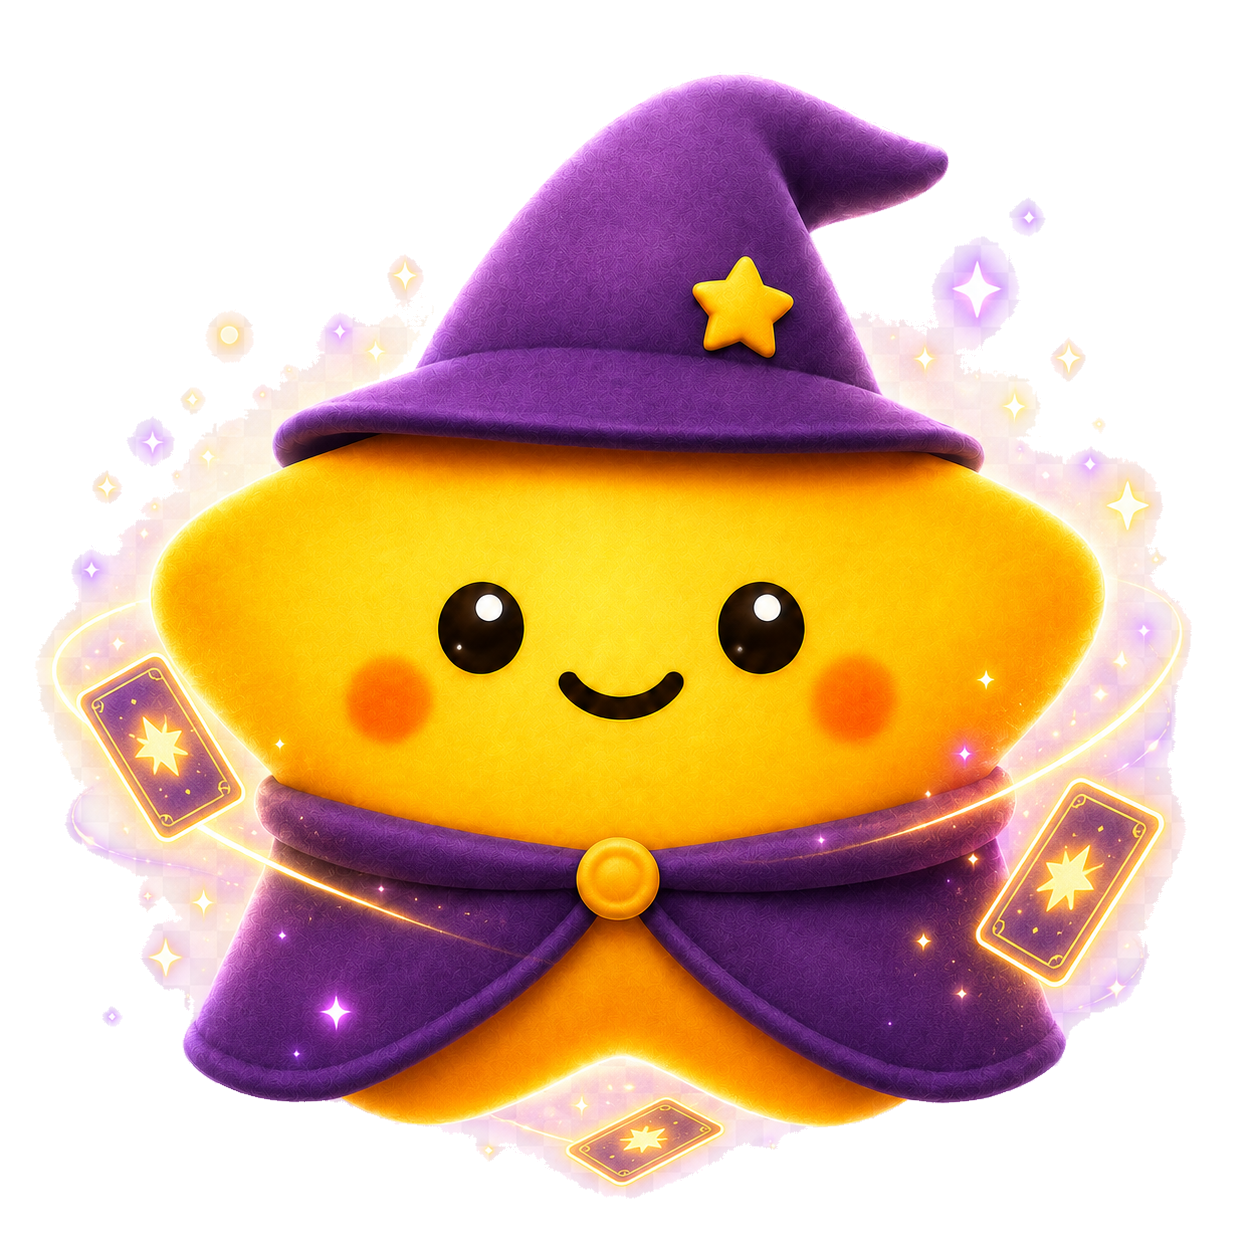
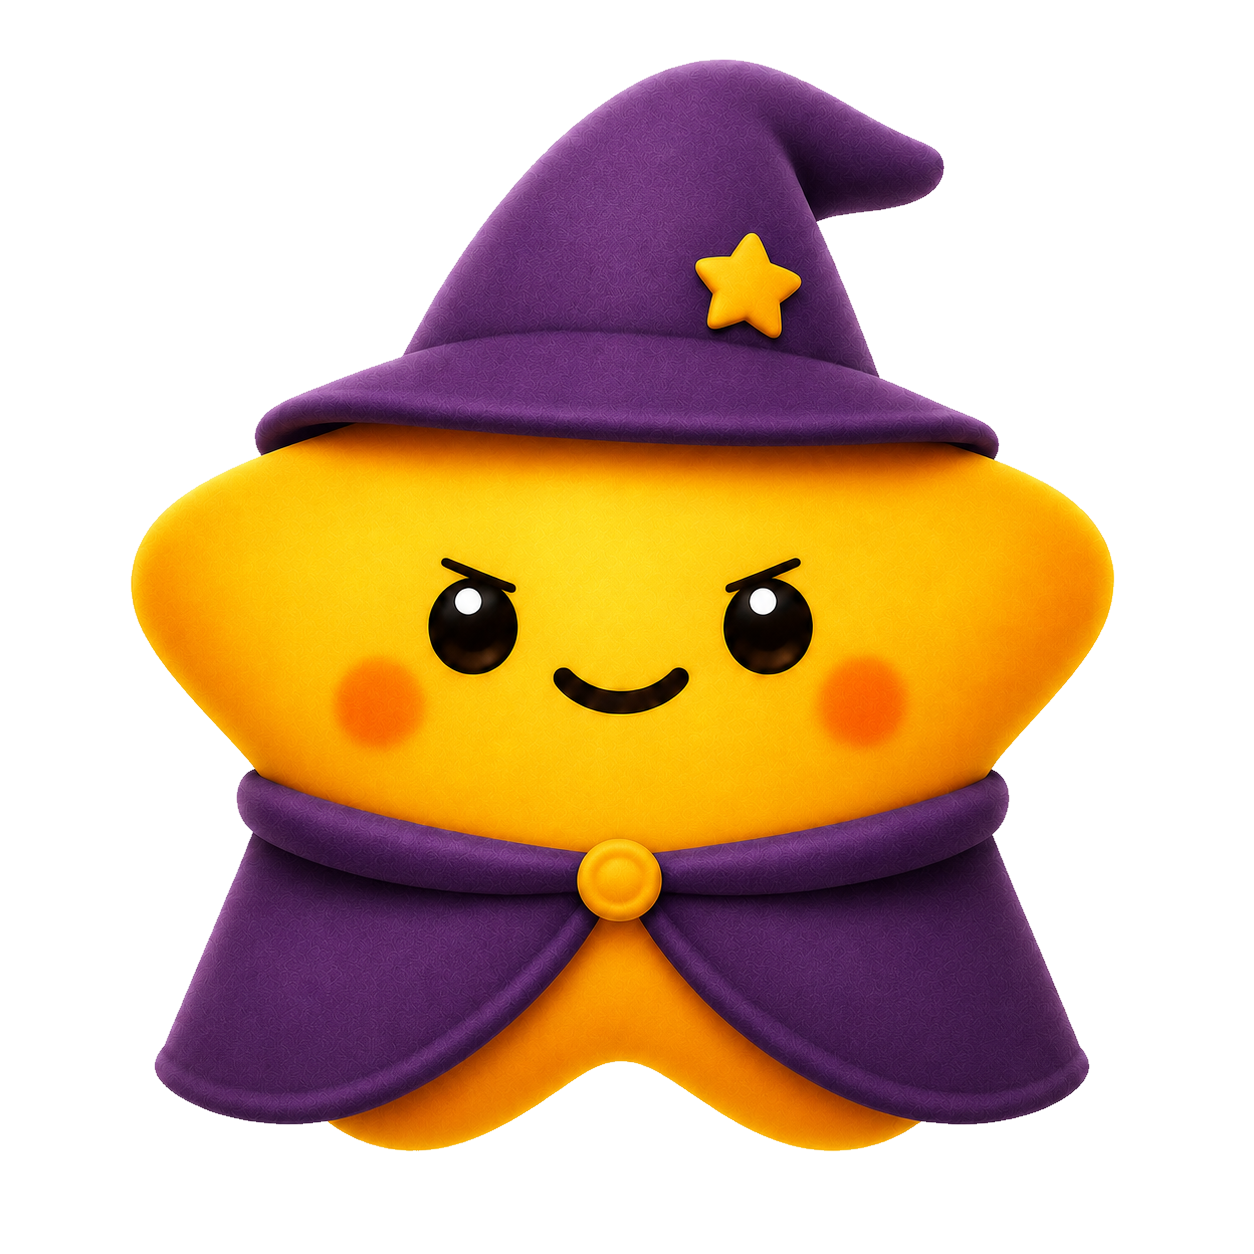
feat(tarot): wire delivered gentle-concern and clean magic character assets
Integrates the 2026-07-16 founder asset delivery (which landed
mid-refinement): twinko_tarot_gentle_concern_v1 now exists and the
magic pose was replaced with a clean character-only export (no baked
cards/rings - compliant with the new character/effect rule).

Derived transparent runtime copies created for both (sources
untouched; usual baked-checkerboard treatment).
TarotTwinkoState.gentleConcern now resolves to the real asset instead
of the idle fallback, and gets its first selective usage: the mini
character introducing the Tarot-derived Meditation handoff on the
result screen. The removed interpreting source and replaced summary
source are reflected in the expression spec, manifest (v2.1 statuses),
and changelog addendum.

Build SUCCEEDED; 17/17 TarotDrawTests (asset mapping updated); the
focused testTarotRefinementWalkthrough passed again end-to-end with
the new assets.

diff --git a/apps/ios/Twinko/Twinko/Tarot/TarotResultView.swift b/apps/ios/Twinko/Twinko/Tarot/TarotResultView.swift
@@ -260,11 +260,16 @@ struct TarotResultStage: View {
             }
             .accessibilityIdentifier("tarotMeditationCTA")
 
-            Text(TarotStrings.meditationHelper(lang))
-                .font(.system(.caption2, design: .rounded))
-                .foregroundStyle(Color.textInverseToken.opacity(0.6))
-                .multilineTextAlignment(.center)
-                .padding(.horizontal, TwinkoSpacing.l)
+            // Gentle-concern Twinko introduces the meditation handoff
+            // (expression spec §3.2 — selective, emotionally attentive).
+            HStack(spacing: 8) {
+                TarotTwinkoView(state: .gentleConcern, size: TarotTwinkoSize.mini)
+                Text(TarotStrings.meditationHelper(lang))
+                    .font(.system(.caption2, design: .rounded))
+                    .foregroundStyle(Color.textInverseToken.opacity(0.65))
+                    .multilineTextAlignment(.leading)
+            }
+            .padding(.horizontal, TwinkoSpacing.l)
 
             // Tertiary: share
             ShareLink(item: TarotShareFormatter.text(for: session, provider: provider,

diff --git a/apps/ios/Twinko/Twinko/Tarot/TarotCardView.swift b/apps/ios/Twinko/Twinko/Tarot/TarotCardView.swift
@@ -8,17 +8,17 @@ import SwiftUI
 /// the idle character plus code-rendered effects.
 enum TarotTwinkoState {
     case idle
-    /// Empathetic state for sensitive moments. The approved
-    /// `twinko_tarot_gentle_concern_v1` asset has not been delivered
-    /// yet, so this resolves to the idle character until it exists
-    /// (documented asset gap — never redrawn in code).
+    /// Empathetic state for sensitive moments — gently raised inner
+    /// brows and a small reassuring smile (delivered 2026-07-16).
     case gentleConcern
     case magic
 
     var assetName: String {
         switch self {
-        case .idle, .gentleConcern:
+        case .idle:
             return "twinko_tarot_idle_v1_transparent"
+        case .gentleConcern:
+            return "twinko_tarot_gentle_concern_v1_transparent"
         case .magic:
             return "twinko_tarot_magic_v1_transparent"
         }

diff --git a/apps/ios/Twinko/TwinkoTests/TarotDrawTests.swift b/apps/ios/Twinko/TwinkoTests/TarotDrawTests.swift
@@ -132,10 +132,8 @@ final class TarotDrawTests: XCTestCase {
     func testTwinkoStateAssetMapping() {
         XCTAssertEqual(TarotTwinkoState.idle.assetName, "twinko_tarot_idle_v1_transparent")
         XCTAssertEqual(TarotTwinkoState.magic.assetName, "twinko_tarot_magic_v1_transparent")
-        // Gentle Concern falls back to idle until the approved asset
-        // is delivered (documented gap).
         XCTAssertEqual(TarotTwinkoState.gentleConcern.assetName,
-                       TarotTwinkoState.idle.assetName)
+                       "twinko_tarot_gentle_concern_v1_transparent")
         // The deprecated summary/interpreting poses are never resolved.
         for state in [TarotTwinkoState.idle, .gentleConcern, .magic] {
             XCTAssertFalse(state.assetName.contains("summary"))

diff --git a/docs/ux/TWINKOTALK_TAROT_TWINKO_EXPRESSION_AND_USAGE_SPEC_V3.md b/docs/ux/TWINKOTALK_TAROT_TWINKO_EXPRESSION_AND_USAGE_SPEC_V3.md
@@ -22,7 +22,7 @@ never baked into the character PNG.
 
 ```text
 twinko_tarot_idle_v1.png            — active
-twinko_tarot_gentle_concern_v1.png  — missing (approved concept, asset not yet delivered)
+twinko_tarot_gentle_concern_v1.png  — active (delivered 2026-07-16)
 twinko_tarot_magic_v1.png           — active
 ```
 
@@ -41,9 +41,10 @@ twinko_tarot_magic_v1.png           — active
 - expression: softly raised inner brows, small reassuring smile — not
   sadness or panic; same body/hat/cape/proportions as idle
 - do not overuse; it never replaces idle across the whole result screen
-- **Status: asset not yet in the repo.** Runtime resolves this state to
-  the idle character until the approved file is delivered (see
-  `TarotTwinkoState` in code). Do not redraw it in code.
+- **Status: active.** Delivered 2026-07-16 with the usual baked
+  checkerboard; a derived-transparent runtime copy lives in
+  `assets/tarot/derived/` (source untouched). First usage: the mini
+  character introducing the Tarot-derived Meditation handoff.
 
 ### Magic — `twinko_tarot_magic_v1.png`
 - use: shuffle, energy sensing, selected-card separation, magical
@@ -51,21 +52,20 @@ twinko_tarot_magic_v1.png           — active
 - runtime composition: `twinko_tarot_magic_v1` + code-rendered magic
   aura + independent card layers + sparse sparkles + optional energy
   ring
-- note: the currently delivered PNG still carries baked cards/glow from
-  the V3 pack; treat as accepted for prototype, replace with a clean
-  character-only export in the next asset delivery
+- note: the 2026-07-16 delivery replaced the old PNG with a clean
+  character-only pose (no baked cards/rings) — fully compliant with
+  the character/effect separation rule
 
 ## Deprecated character states (v3.1)
 
 ```text
 twinko_tarot_summary_v1.png       — deprecated (source retained in assets/tarot/twinko/; no runtime reference)
-twinko_tarot_interpreting_v1.png  — deprecated (source retained in assets/tarot/twinko/; no runtime reference)
+twinko_tarot_interpreting_v1.png  — removed (source deleted in the 2026-07-16 founder delivery)
 ```
 
 - Summary references → `twinko_tarot_idle_v1` + runtime summary effects.
 - Interpreting/concerned references → `twinko_tarot_gentle_concern_v1`
-  where the emotional state is genuinely needed (idle fallback until
-  the asset exists).
+  where the emotional state is genuinely needed.
 - Runtime image sets for the deprecated poses were removed from the
   asset catalog; the source PNGs remain in `assets/tarot/twinko/` as
   reference-only files.
@@ -99,7 +99,7 @@ Centralized in `TarotTwinkoSize`.
 | Spread Selection | idle | idle glow + float |
 | Shuffle Ritual | magic | aura, ring, dust, card fan (independent) |
 | Result / Synthesis | idle | summary aura |
-| Sensitive / error states | gentle concern (idle fallback) | minimal glow |
+| Sensitive / error states | gentle concern | minimal glow |
 | Guidance Summary Card | idle | warm halo + sparse static sparkles |
 
 ## Hard rules

diff --git a/docs/ux/TWINKOTALK_TAROT_REVIEW_AND_CHANGELOG_V3.md b/docs/ux/TWINKOTALK_TAROT_REVIEW_AND_CHANGELOG_V3.md
@@ -48,3 +48,15 @@
    card lists, no determinism, no ellipsis), recommended theme +
    duration marked as Twinko recommendations, trust note, supplemental
    input copy, sticky generation CTA ("Create My Meditation").
+
+## v3.1 asset delivery addendum (2026-07-16)
+
+- `twinko_tarot_gentle_concern_v1.png` delivered — status Active.
+  Derived transparent runtime copy created; wired into
+  `TarotTwinkoState.gentleConcern` and shown as the mini character
+  introducing the Tarot-derived Meditation handoff.
+- `twinko_tarot_magic_v1.png` replaced with a clean character-only
+  pose (no baked cards/rings); derived runtime copy regenerated.
+- `twinko_tarot_summary_v1.png` source replaced by founder; remains
+  deprecated with no runtime reference.
+- `twinko_tarot_interpreting_v1.png` source removed by founder.

diff --git a/docs/ux/TWINKOTALK_TAROT_CANONICAL_ASSETS_AND_SUMMARY_CARD_SPEC_V3.md b/docs/ux/TWINKOTALK_TAROT_CANONICAL_ASSETS_AND_SUMMARY_CARD_SPEC_V3.md
@@ -44,7 +44,7 @@ This is the single canonical face-down card used for shuffle, reveal, spread pre
 
 ```text
 twinko_tarot_idle_v1.png            (active)
-twinko_tarot_gentle_concern_v1.png  (approved concept — asset not yet delivered)
+twinko_tarot_gentle_concern_v1.png  (active — delivered 2026-07-16)
 twinko_tarot_magic_v1.png           (active)
 ```
 